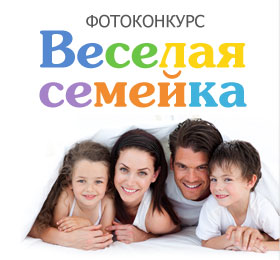
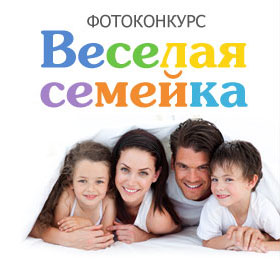
contest

diff --git a/stylesheets/global.css b/stylesheets/global.css
@@ -776,7 +776,7 @@ a.pseudo {text-decoration:none;border-bottom:1px dashed #0498b8;}
 
 #contest {margin:0 10px;line-height:19px;font-size:13px;}
 
-#contest h4 {text-align: left;color: #0281b0;font: bold 14px Arial, Helvetica, sans-serif;padding: 6px 18px;background: #d4f5fc;display:inline-block;*zoom:1;*display:inline;clear: both;margin: 15px 0 15px;}
+/* #contest h4 {text-align: left;color: #0281b0;font: bold 14px Arial, Helvetica, sans-serif;padding: 6px 18px;background: #d4f5fc;display:inline-block;*zoom:1;*display:inline;clear: both;margin: 15px 0 15px;} */
 
 #contest .contest-rules p {margin:5px 0;line-height:normal;}
 #contest .contest-rules ul {list-style-position:inside;margin-left:20px;padding:10px 0;}
@@ -893,50 +893,54 @@ a.pseudo {text-decoration:none;border-bottom:1px dashed #0498b8;}
 .contest-list_row > .result > .win {float:left;width:28px;height:28px;margin:2px 6px 0;background:url(/images/common.png) no-repeat -523px -399px;}
 
 .contest-takeapart {position:absolute;z-index:5;right:100px;bottom:28px;width:228px;height:59px;background:url(/images/btn_contest_takeapart.png) no-repeat;text-indent:-9999px;}
-/* old */
-.section-banner .contest-text {
-	position:absolute;
-	top:33px;
-	left:30px;
-	height:215px;
-	width:460px;
-	text-align:center;
-	vertical-align:middle;
-	display:inline-block;
-}
-.section-banner .contest-text:after{
-	content:"";
-	display:inline-block;
-	*display:inline;
-	*zoom:1;
-	height:100%;
-	vertical-align:middle;
-}
-.section-banner .contest-text .holder {
-	display:inline-block;
-	*display:inline;
-	*zoom:1;
-	vertical-align:middle;
-}
 
-.section-banner .contest-text img {
-	display:inline-block;
-	*display:inline;
-	*zoom:1;
-	vertical-align:middle;
-	margin-bottom:15px;
+#contest .section-banner .button-holder {position:absolute; left:162px;top:190px;} 
+#contest .section-banner .contest-error-hint {top:60px;margin-left:-130px;}
+#contest .section-banner {margin:-20px -30px 0;}
+#contest.contest-3 .section-banner .button-holder {position:absolute; left:216px;top:193px;}
+#contest.contest-3 .section-banner .contest-error-hint {top:85px;}
+#contest.contest-3 .section-banner .contest-button {
+	display:block;
+	padding: 4px 35px 4px;
+	font:bold 30px/74px Arial, Tahoma, Verdana, sans-serif;
+	color: #94631b;
+	text-align: center;
+	text-decoration:none;
+	cursor: pointer;
+	background: #fdd601; /* Old browsers */
+	background: -moz-linear-gradient(top,  #fffb68 0%, #fdd601 100%); /* FF3.6+ */
+	background: -webkit-gradient(linear, left top, left bottom, color-stop(0%,#fffb68), color-stop(100%,#fdd601)); /* Chrome,Safari4+ */
+	background: -webkit-linear-gradient(top,  #fffb68 0%,#fdd601 100%); /* Chrome10+,Safari5.1+ */
+	background: -o-linear-gradient(top,  #fffb68 0%,#fdd601 100%); /* Opera 11.10+ */
+	background: -ms-linear-gradient(top,  #fffb68 0%,#fdd601 100%); /* IE10+ */
+	background: linear-gradient(to bottom,  #fffb68 0%,#fdd601 100%); /* W3C */
+	-moz-border-radius:5px;-webkit-border-radius:5px;border-radius:5px;
 }
-/* / old */
-.section-banner .button-holder {position:absolute; left:162px;top:190px;} 
-.section-banner .button-holder .contest-error-hint {top:60px;margin-left:-130px;}
+.ie7 #contest.contest-3 .section-banner .contest-button,
+.ie8 #contest.contest-3 .section-banner .contest-button {filter: progid:DXImageTransform.Microsoft.gradient( startColorstr='#fffb68', endColorstr='#fdd601',GradientType=0 ); /* IE6-8 */}
[1 lines of base64/hex data omitted]
+#contest.contest-3 .section-banner .contest-button:hover {
+	background: #fdca2a; /* Old browsers */
+	background: -moz-linear-gradient(top,  #f9f566 0%, #fdca2a 100%); /* FF3.6+ */
+	background: -webkit-gradient(linear, left top, left bottom, color-stop(0%,#efeb61), color-stop(100%,#ebc701)); /* Chrome,Safari4+ */
+	background: -webkit-linear-gradient(top,  #efeb61 0%,#ebc701 100%); /* Chrome10+,Safari5.1+ */
+	background: -o-linear-gradient(top,  #efeb61 0%,#ebc701 100%); /* Opera 11.10+ */
+	background: -ms-linear-gradient(top,  #efeb61 0%,#fdca2a 100%); /* IE10+ */
+	background: linear-gradient(to bottom,  #f9f566 0%,#fdca2a 100%); /* W3C */
+}
+.ie7 #contest.contest-3 .section-banner .contest-button:hover,
+.ie8 #contest.contest-3 .section-banner .contest-button:hover {filter: progid:DXImageTransform.Microsoft.gradient( startColorstr='#efeb61', endColorstr='#ebc701',GradientType=0 ); /* IE6-8 */}
[1 lines of base64/hex data omitted]
 
 .contest-nav {
 	position:relative;
-	margin:-20px -30px 40px;
+	margin:0 -30px 40px;
 	padding:12px 20px;
-	background:#faf5ff;
+	background:#cee0fa;
 }
-.contest-nav.green {background:#c4f297;}
+.contest-1 .contest-nav {background:#cee0fa;}
+.contest-2 .contest-nav {background:#faf5ff;}
+.contest-3 .contest-nav {background:#c4f297;}
 	.contest-nav ul {list-style:none;}
 	.contest-nav li {
 		border-left:1px solid #d0bae4;
@@ -950,13 +954,13 @@ a.pseudo {text-decoration:none;border-bottom:1px dashed #0498b8;}
 		height:23px;
 		line-height:23px;
 		padding:0 9px;
-		color:#6a4093;
+		color:#2f2f2f;
 		font-size:15px;
 	}
-	.contest-nav.green li a {color:#2f2f2f;}
+	.contest-2 .contest-nav li a {color:#6a4093;}
 	.contest-nav li a:hover {text-decoration:underline;}
 	.contest-nav li.active a {
-		background:#a17dc4;
+		background:#5488d0;
 		color:#fff;
 		position:relative;
 		-moz-border-radius:4px;
@@ -964,7 +968,9 @@ a.pseudo {text-decoration:none;border-bottom:1px dashed #0498b8;}
 		border-radius:4px;
 		behavior: url(/stylesheets/PIE.htc);
 	}
-	.contest-nav.green li.active a {background:#48ba17;}
+	.contest-1 .contest-nav li.active a {background:#5488d0;}
+	.contest-2 .contest-nav li.active a {background:#a17dc4;}
+	.contest-3 .contest-nav li.active a {background:#48ba17;}
 	.contest-nav li.active a:hover {text-decoration:none;}
 
 .inner.contest .content-title {
@@ -975,7 +981,6 @@ a.pseudo {text-decoration:none;border-bottom:1px dashed #0498b8;}
     color: #0281b0;
     font: bold 25px Arial, Helvetica, sans-serif;
 }
-
 
 .inner.contest > ul li {
     text-align: left;

diff --git a/stylesheets/common.css b/stylesheets/common.css
@@ -476,6 +476,47 @@ textarea.error {border:1px solid #ff6767 !important;}
 .ie8 .btn-corncolor:hover {filter: progid:DXImageTransform.Microsoft.gradient( startColorstr='#fefa73', endColorstr='#fee019',GradientType=0 ); /* IE6-8 */}
[1 lines of base64/hex data omitted]
 
+.btn-gold  {
+	display: inline-block;
+	*display: inline;
+	*zoom: 1;
+	padding: 4px 10px 4px;
+	margin-bottom: 0;
+	*margin-left: .3em;
+	font-size: 13px;
+	font-family: Arial, Tahoma, Verdana, sans-serif;
+	color: #94631b;
+	border:0;
+	text-align: center;
+	text-decoration:none;
+	cursor: pointer;
+	width: auto; /* IE 7 input button fix */
+	overflow: visible; /* IE7 input button fix */
+	background: #fdd601; /* Old browsers */
+	background: -moz-linear-gradient(top,  #fffb68 0%, #fdd601 100%); /* FF3.6+ */
+	background: -webkit-gradient(linear, left top, left bottom, color-stop(0%,#fffb68), color-stop(100%,#fdd601)); /* Chrome,Safari4+ */
+	background: -webkit-linear-gradient(top,  #fffb68 0%,#fdd601 100%); /* Chrome10+,Safari5.1+ */
+	background: -o-linear-gradient(top,  #fffb68 0%,#fdd601 100%); /* Opera 11.10+ */
+	background: -ms-linear-gradient(top,  #fffb68 0%,#fdd601 100%); /* IE10+ */
+	background: linear-gradient(to bottom,  #fffb68 0%,#fdd601 100%); /* W3C */
+	-moz-border-radius:5px;-webkit-border-radius:5px;border-radius:5px;
+}
+.ie7 .btn-gold,
+.ie8 .btn-gold {filter: progid:DXImageTransform.Microsoft.gradient( startColorstr='#fffb68', endColorstr='#fdd601',GradientType=0 ); /* IE6-8 */}
[1 lines of base64/hex data omitted]
+.btn-gold:hover {
+	background: #fdca2a; /* Old browsers */
+	background: -moz-linear-gradient(top,  #f9f566 0%, #fdca2a 100%); /* FF3.6+ */
+	background: -webkit-gradient(linear, left top, left bottom, color-stop(0%,#efeb61), color-stop(100%,#ebc701)); /* Chrome,Safari4+ */
+	background: -webkit-linear-gradient(top,  #efeb61 0%,#ebc701 100%); /* Chrome10+,Safari5.1+ */
+	background: -o-linear-gradient(top,  #efeb61 0%,#ebc701 100%); /* Opera 11.10+ */
+	background: -ms-linear-gradient(top,  #efeb61 0%,#fdca2a 100%); /* IE10+ */
+	background: linear-gradient(to bottom,  #f9f566 0%,#fdca2a 100%); /* W3C */
+}
+.ie7 .btn-gold:hover,
+.ie8 .btn-gold:hover {filter: progid:DXImageTransform.Microsoft.gradient( startColorstr='#efeb61', endColorstr='#ebc701',GradientType=0 ); /* IE6-8 */}
[1 lines of base64/hex data omitted]
+
 .btn-amethyst  {
 	display: inline-block;
 	*display: inline;
@@ -513,9 +554,9 @@ textarea.error {border:1px solid #ff6767 !important;}
 	background: -ms-linear-gradient(top,  #A678CC 0%,#8045A8 100%); /* IE10+ */
 	background: linear-gradient(to bottom,  #A678CC 0%,#8045A8 100%); /* W3C */
 }
-.ie7 .btn-corncolor:hover,
-.ie8 .btn-corncolor:hover {filter: progid:DXImageTransform.Microsoft.gradient( startColorstr='#A678CC', endColorstr='#8045A8',GradientType=0 ); /* IE6-8 */}
[1 lines of base64/hex data omitted]
+.ie7 .btn-amethyst:hover,
+.ie8 .btn-amethyst:hover {filter: progid:DXImageTransform.Microsoft.gradient( startColorstr='#A678CC', endColorstr='#8045A8',GradientType=0 ); /* IE6-8 */}
[1 lines of base64/hex data omitted]
 
 .btn-gray {
     display: inline-block;
@@ -4856,7 +4897,7 @@ label {
 	margin:0 0 0 -9px;
 	background:url(../images/bg-like-error-hint.png) no-repeat;
 }
-.contest-error-hint h4 {margin-bottom:6px;color:#f95708;font-size:14px;font-weight:bold;}
+.contest-error-hint > h4 {margin-bottom:6px;color:#f95708;font-size:14px;font-weight:bold;}
 
 /* social icons small 20*20px */
 .social-small-row {

diff --git a/html/social/contest/contest-3.html b/html/social/contest/contest-3.html
@@ -387,26 +387,18 @@
 		
 		<div id="content">
 			
-            <div id="crumbs">
-                <a href="">Главная</a>
-                &nbsp;>&nbsp;
-                <a href="">Клуб</a>
-                &nbsp;>&nbsp;
-                <b>Календарь малыша</b>
-            </div>
-        
-			<div class="section-banner">
-				<div class="button-holder">
-					<a href=""class="btn-corncolor btn-large">Участвовать!</a>
-					<div class="contest-error-hint" style="display:block;">
-						<h4>Oops!</h4><p>Что бы проголосовать, вам нужно пройти <a href='#'>Первые 6 шагов</a> в свой анкете </p>
+			<div id="contest" class="contest-3">
+				<div class="section-banner">
+					<div class="button-holder">
+						<a href=""class="contest-button">Участвовать!</a>
+						<div class="contest-error-hint" style="display:block;">
+							<h4>Oops!</h4><p>Что бы проголосовать, вам нужно пройти <a href='#'>Первые 6 шагов</a> в свой анкете </p>
+						</div>
 					</div>
+					<img src="/images/contest/banner-w1000-3.jpg" />
 				</div>
-				<img src="/images/contest/banner-w960-3.jpg" />
-			</div>
-			
-			<div id="contest">
-				<div class="contest-nav green clearfix">
+				
+				<div class="contest-nav clearfix">
 					<ul>
 						<li class="active"><a href="http://dev.happy-giraffe.ru/html/social/contest/contest-2.html">О конкурсе</a></li>
 						<li><a href="http://dev.happy-giraffe.ru/html/social/contest/contest_rules-2.html">Правила</a></li>

diff --git a/html/social/contest/contest.html b/html/social/contest/contest.html
@@ -361,31 +361,22 @@
 				</div>
 				
 			</div>
-		
-		<div id="crumbs">
-			<a href="">Главная</a>
-			&nbsp;>&nbsp;
-			<a href="">Клуб</a>
-			&nbsp;>&nbsp;
-			<b>Календарь малыша</b>
-		</div>
-		
+
 		<div id="content">
 			
-			<div class="section-banner section-banner-pattern">
-				<div class="section-nav" style="left:25px;top:30px;">
+			<div id="contest" class="contest-1">
+				
+				<div class="section-banner">
+					<img src="/images/contest/banner-w1000-1.jpg" />
+				</div>
+				
+				<div class="contest-nav clearfix">
 					<ul>
-						<li class="active"><a href="">О конкурсе</a></li>
-						<li><a href="">Правила</a></li>
-						<li><a href="">Участники</a></li>
+						<li class="active"><a href="http://dev.happy-giraffe.ru/html/social/contest/contest-2.html">О конкурсе</a></li>
+						<li><a href="http://dev.happy-giraffe.ru/html/social/contest/contest_rules-2.html">Правила</a></li>
+						<li><a href="http://dev.happy-giraffe.ru/html/social/contest/contest_members-2.html">Участники</a></li>
 					</ul>
 				</div>
-				<a href="" class="contest-takeapart">Участвовать</a>
-				<img src="/images/contest_banner_01.png" />
-			</div>
-			
-			<div id="contest">
-				
 				<div class="contest-about clearfix">
 					
 					<div class="sticker">

diff --git a/html/social/contest/contest-2.html b/html/social/contest/contest-2.html
@@ -387,25 +387,10 @@
 		
 		<div id="content">
 			
-            <div id="crumbs">
-                <a href="">Главная</a>
-                &nbsp;>&nbsp;
-                <a href="">Клуб</a>
-                &nbsp;>&nbsp;
-                <b>Календарь малыша</b>
-            </div>
-        
-			<div class="section-banner">
-				<div class="button-holder">
-					<a href=""class="btn-blue btn-blue-55">Участвовать!</a>
-					<div class="contest-error-hint" style="display:block;">
-						<h4>Oops!</h4><p>Что бы проголосовать, вам нужно пройти <a href='#'>Первые 6 шагов</a> в свой анкете </p>
-					</div>
+			<div id="contest" class="contest-2">
+				<div class="section-banner">
+					<img src="/images/contest/banner-w1000-2.jpg" />
 				</div>
-				<img src="/images/contest/banner-w960-2.jpg" />
-			</div>
-			
-			<div id="contest">
 				<div class="contest-nav clearfix">
 					<ul>
 						<li class="active"><a href="http://dev.happy-giraffe.ru/html/social/contest/contest-2.html">О конкурсе</a></li>

diff --git a/html/social/contest/contest_winners-2.html b/html/social/contest/contest_winners-2.html
@@ -400,7 +400,7 @@
 				<div class="button-holder">
 					<a href=""class="btn-blue btn-blue-55">Участвовать!</a>
 				</div>
-				<img src="/images/contest/banner-w960-2.jpg" />
+				<img src="/images/contest/banner-w1000-2.jpg" />
 			</div>
 			
 			<div id="contest">
